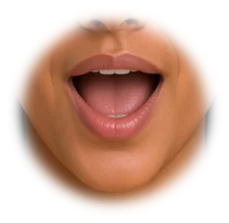
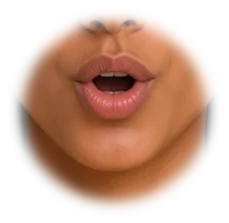
Boca mais natural: troca as posições extremas por moderadas nos 8 tutores
A (vogal aberta) usava a boca aberta larga e E/I (som mais frequente) o sorriso com dentes:
na fala, a boca abria demais e esticava para os lados. Agora A usa a arredondada e E/I a boca
entreaberta da expressão surpresa. Página de protótipo mostra os 8 tutores.

Claude-Session: https://claude.ai/code/session_016xu6QYiXh7afZ6jxHZhVUL

diff --git a/src/app/prototipo/tutores/PrototipoTutores.tsx b/src/app/prototipo/tutores/PrototipoTutores.tsx
@@ -6,8 +6,14 @@ import { useLipSyncElemento } from "@/lib/client/useLipSync";
 import type { Visema } from "@/lib/domain/lipsync";
 
 const TUTORES = [
-  { slug: "helena", nome: "Helena", idioma: "Português · sotaque mineiro", fala: "Olá! Eu sou a Helena. Vamos com calma, tá? Me conta um pouquinho de você: o que você gosta de fazer quando tem um tempo livre?" },
+  { slug: "maya", nome: "Maya", idioma: "Inglês · sotaque americano", fala: "Hi! I'm Maya. Ready to chat? Tell me, what did you do last weekend?" },
+  { slug: "oliver", nome: "Oliver", idioma: "Inglês · sotaque britânico", fala: "Hello there, I'm Oliver. Shall we begin? Take your time, there's no rush." },
   { slug: "grace", nome: "Grace", idioma: "Inglês · sotaque americano", fala: "Hey, I'm Grace! So, you've got an interview coming up? Great. Let's practice. Tell me about a project you're really proud of." },
+  { slug: "lucia", nome: "Lucía", idioma: "Espanhol · sotaque mexicano", fala: "¡Hola! Soy Lucía. ¿Platicamos un ratito? Cuéntame qué te gusta comer." },
+  { slug: "mateo", nome: "Mateo", idioma: "Espanhol · sotaque espanhol", fala: "¡Hola! Soy Mateo. ¡Vamos a hablar! Dime, ¿por qué quieres aprender español?" },
+  { slug: "bia", nome: "Bia", idioma: "Português · sotaque paulista", fala: "Oi! Eu sou a Bia. Vamos conversar? Me conta o que você fez hoje." },
+  { slug: "caio", nome: "Caio", idioma: "Português · sotaque carioca", fala: "E aí! Sou o Caio. Bora praticar? Me fala de um lugar que você curte." },
+  { slug: "helena", nome: "Helena", idioma: "Português · sotaque mineiro", fala: "Olá! Eu sou a Helena. Vamos com calma, tá? Me conta um pouquinho de você: o que você gosta de fazer quando tem um tempo livre?" },
 ];
 
 function Cartao({ t }: { t: (typeof TUTORES)[number] }) {
@@ -67,7 +73,7 @@ export default function PrototipoTutores() {
     <main className="min-h-dvh bg-[#0B1220] px-4 py-10 text-[#F8FAFC]">
       <div className="mx-auto max-w-5xl">
         <p className="text-sm font-bold uppercase tracking-[0.25em] text-[#18A957]">Protótipo</p>
-        <h1 className="mt-2 text-3xl font-extrabold sm:text-4xl">Tutores em foto, falando de verdade</h1>
+        <h1 className="mt-2 text-3xl font-extrabold sm:text-4xl">Os 8 tutores, falando de verdade</h1>
         <p className="mt-3 max-w-3xl text-white/70">
           Toque em “Ouvir”: a boca acompanha a voz gerada pela OpenAI, analisada no navegador do mesmo jeito que na aula ao vivo.
           Só a boca e os olhos trocam; o resto do retrato fica parado. Segure os botões de “Bocas” para ver cada posição.

diff --git a/scripts/tutores-fotos.py b/scripts/tutores-fotos.py
@@ -25,8 +25,11 @@ import numpy as np
 
 LADO = 768  # tamanho do retrato servido (suficiente para telas retina até ~380 px)
 CARD = 400
-# visema do app (src/lib/domain/lipsync.ts) -> letra da boca entregue
-VISEMA_PARA_BOCA = {1: "B", 2: "C", 3: "D", 4: "E", 5: "A", 6: "F"}
+# visema do app (src/lib/domain/lipsync.ts) -> boca usada.
+# As fotos "aberta larga" (B) e "sorriso com dentes" (C) são extremas e, na fala, ficavam exageradas
+# (abrindo demais e esticando para os lados). Usamos posições moderadas: "A" com a arredondada (D)
+# e "E/I", o som mais frequente, com a boca entreaberta da expressão "surpresa".
+VISEMA_PARA_BOCA = {1: "D", 2: "surpresa", 3: "D", 4: "E", 5: "A", 6: "F"}
 RAIZ = os.path.dirname(os.path.dirname(os.path.abspath(__file__)))
 
 
@@ -128,8 +131,12 @@ def processar(pasta, slug):
     co = caixa_mudanca(base, olhos, zona_olhos) or (int(LADO * 0.38), int(LADO * 0.32), int(LADO * 0.62), int(LADO * 0.40))
     co = folga(co, int(LADO * 0.035), LADO, LADO)
 
+    surpresa_p = achar(pasta, "expressao_surpresa", "surpresa")
+    if surpresa_p:
+        bocas["surpresa"] = ler(surpresa_p)
     for v, L in VISEMA_PARA_BOCA.items():
-        cv2.imwrite(os.path.join(saida, f"boca-{v}.webp"), recorte(base, bocas[L], cb), [cv2.IMWRITE_WEBP_QUALITY, 85])
+        fonte = bocas.get(L) if L in bocas else bocas["C"]  # sem a foto "surpresa": volta ao sorriso com dentes
+        cv2.imwrite(os.path.join(saida, f"boca-{v}.webp"), recorte(base, fonte, cb), [cv2.IMWRITE_WEBP_QUALITY, 85])
     cv2.imwrite(os.path.join(saida, "olhos.webp"), recorte(base, olhos, co), [cv2.IMWRITE_WEBP_QUALITY, 85])
     info.update({"animado": True, "boca": frac(cb, LADO, LADO), "olhos": frac(co, LADO, LADO), "expressoes": {}})
 
